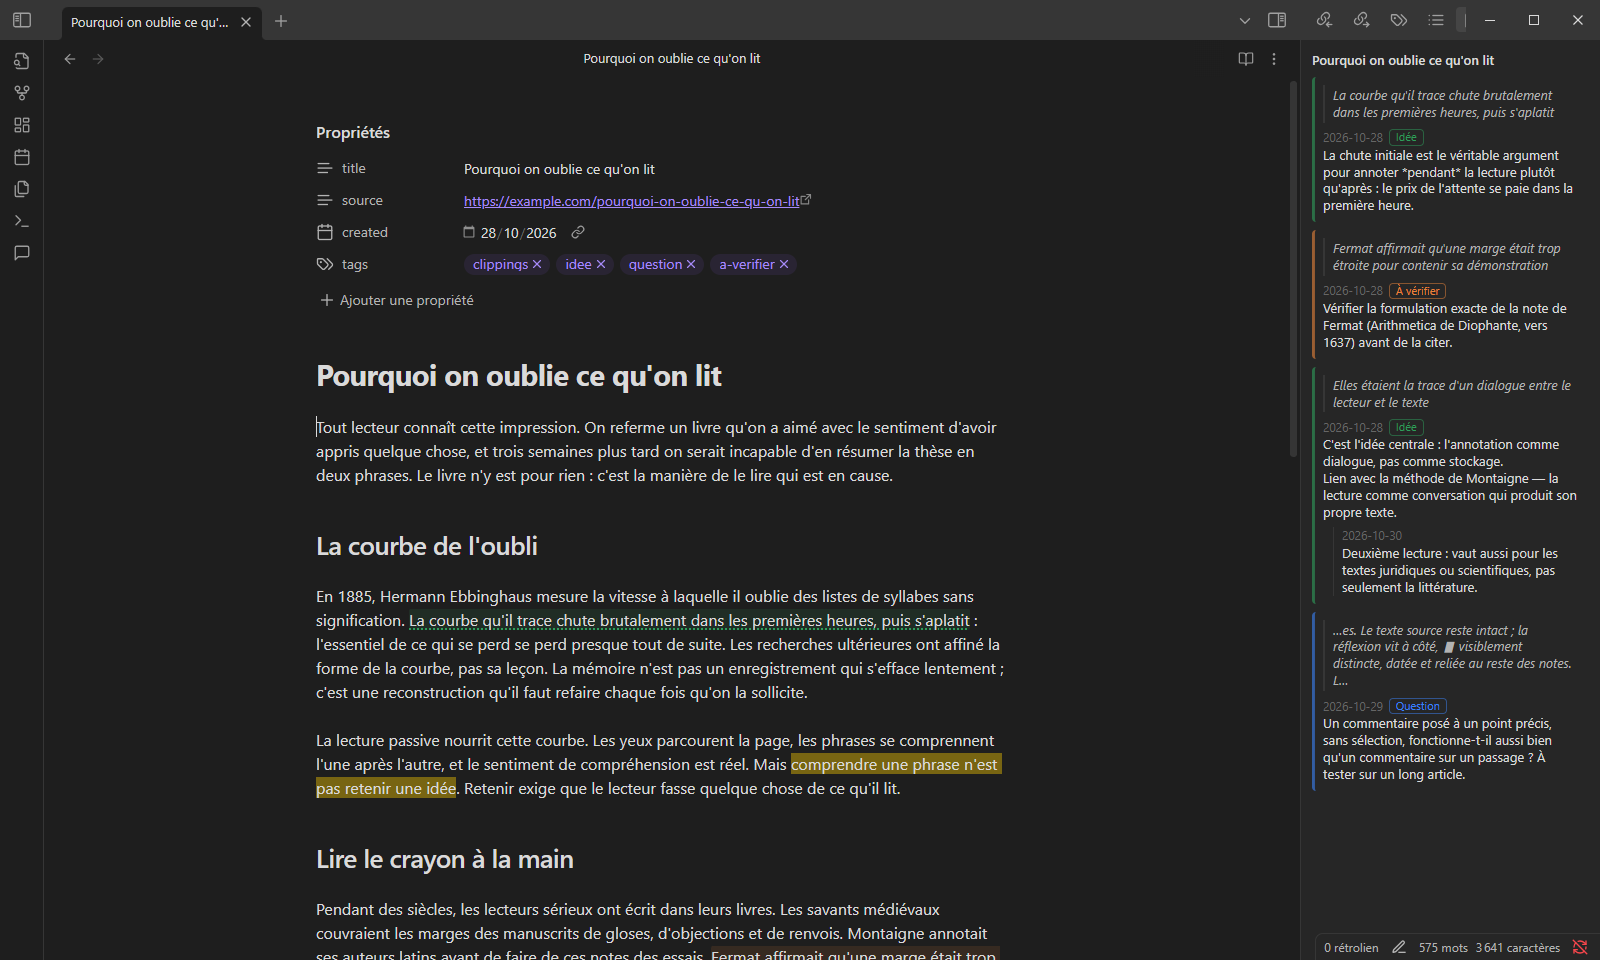
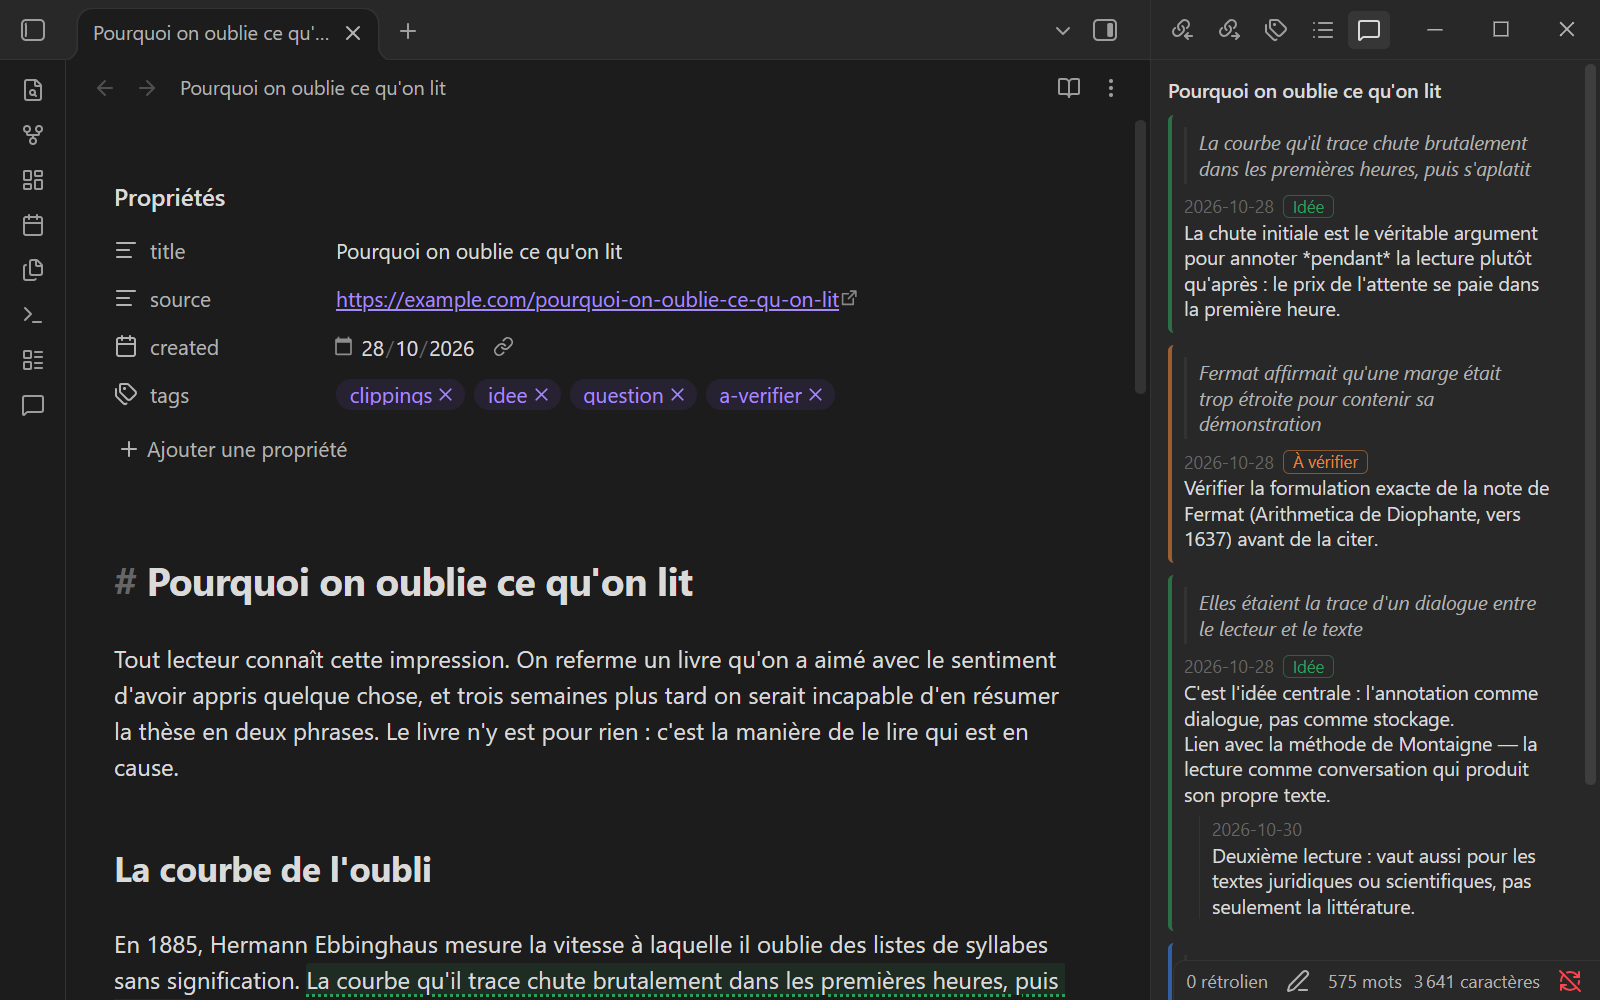
Captures claires et sombres, zoom plus fort, GIF d'accueil
- Scripts de capture : thèmes clair et sombre, zoom 1,2, GIF 00-hero, restauration de la note et des extractions de démonstration, robustesse (fenêtre en arrière-plan, menus natifs).
- 68 captures régénérées (en/fr × clair/sombre) ; 12 à 14 renommées « actions ».

diff --git a/scripts/frames-to-gif.py b/scripts/frames-to-gif.py
@@ -21,8 +21,15 @@ for f in frames:
     images.append(img)
     durations.append(f["ms"])
 
-# Une palette commune, calculée sur la première image, évite le scintillement des couleurs d'une image à l'autre.
-palette = images[0].quantize(colors=128, method=Image.Quantize.MEDIANCUT)
+# Une palette commune évite le scintillement des couleurs d'une image à l'autre. Elle est calculée sur la première,
+# celle du milieu et la dernière, pour garder les couleurs qui n'apparaissent qu'en cours de route (menu, catégorie).
+picks = [images[0], images[len(images) // 2], images[-1]]
+sample = Image.new("RGB", (WIDTH, sum(im.height for im in picks)))
+y = 0
+for im in picks:
+    sample.paste(im, (0, y))
+    y += im.height
+palette = sample.quantize(colors=128, method=Image.Quantize.MEDIANCUT)
 images = [im.quantize(palette=palette, dither=Image.Dither.NONE) for im in images]
 images[0].save(out, save_all=True, append_images=images[1:], duration=durations, loop=0, optimize=True)
 print(f"OK {out.name} ({len(images)} images, {out.stat().st_size // 1024} Ko)")
